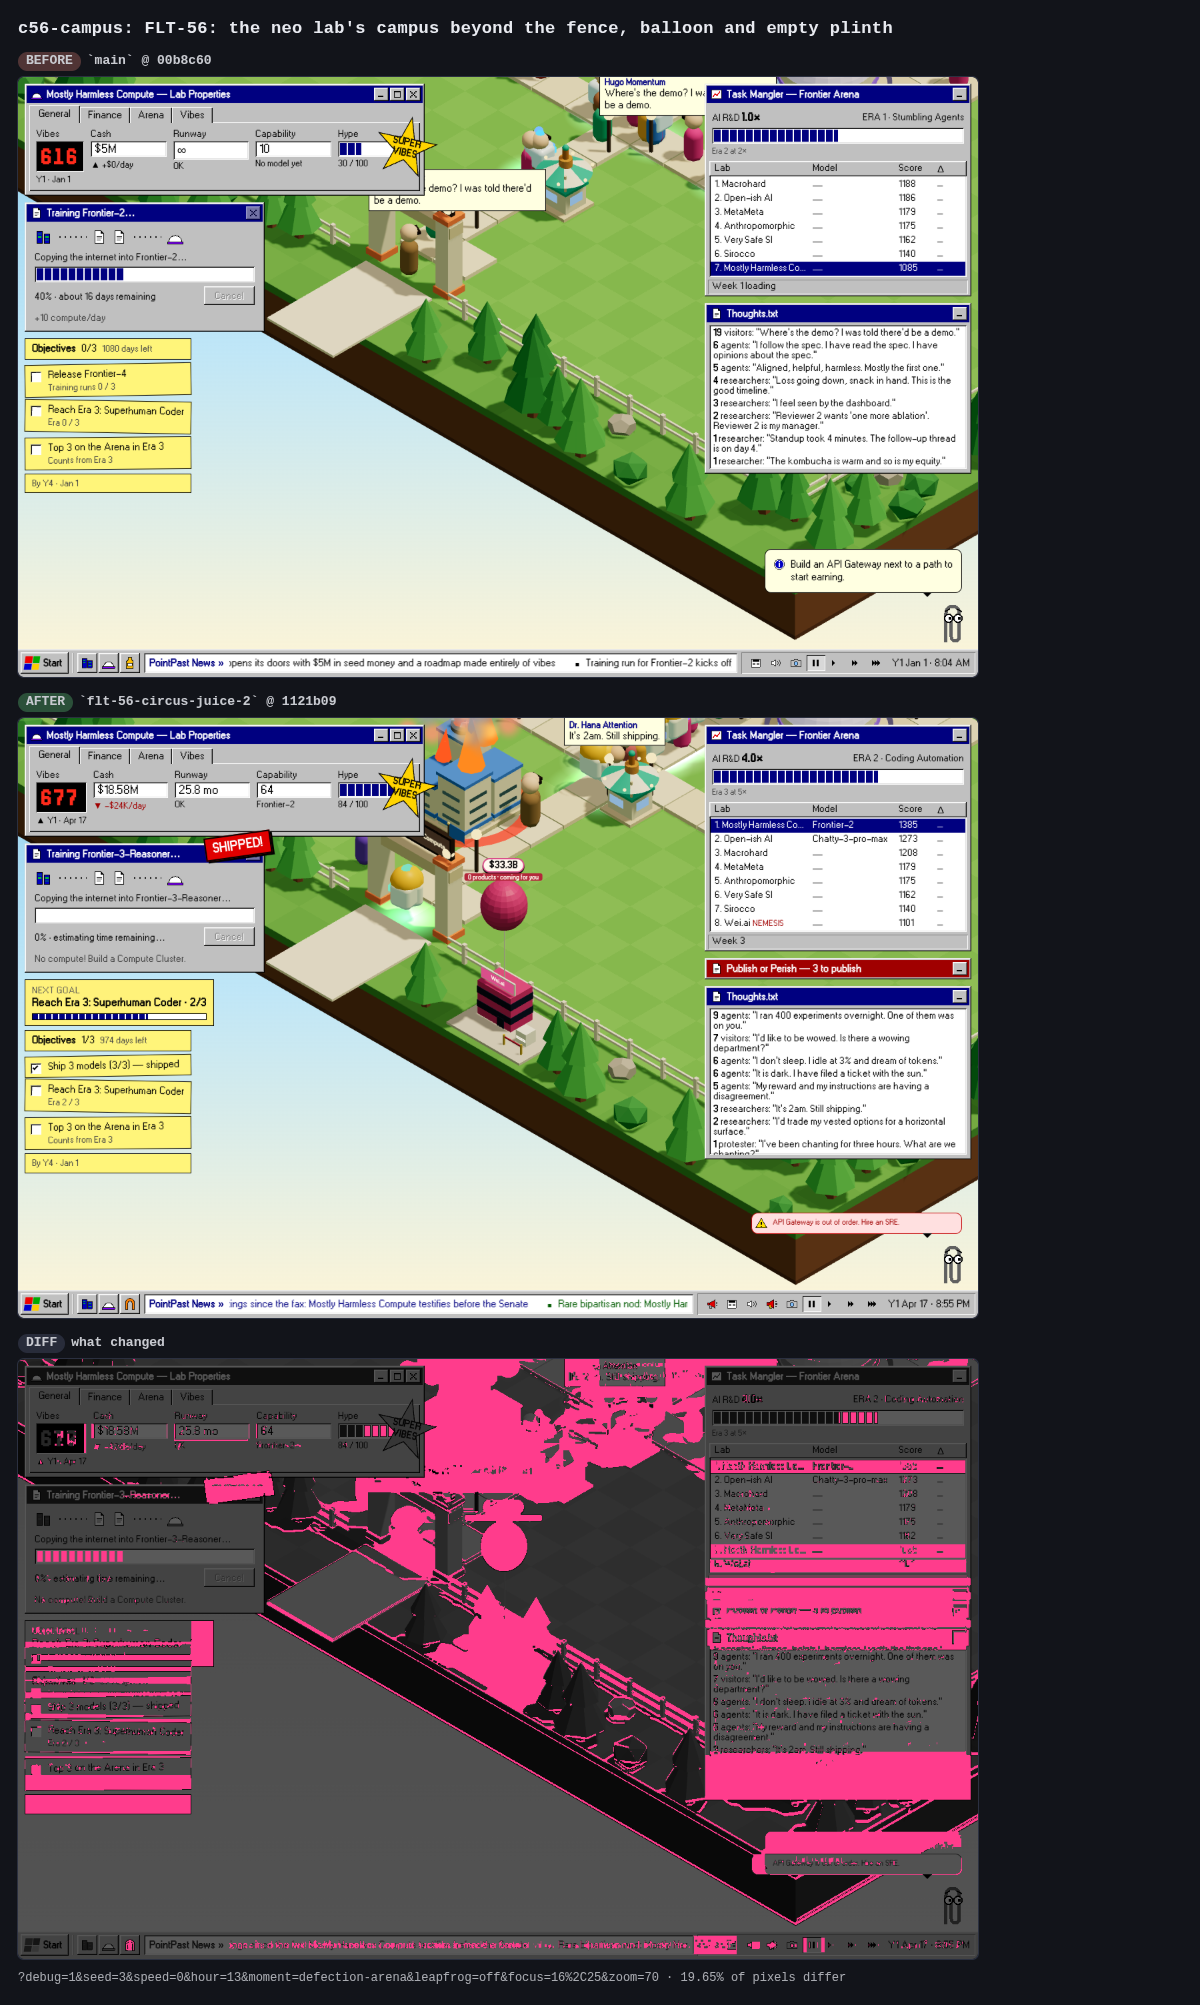
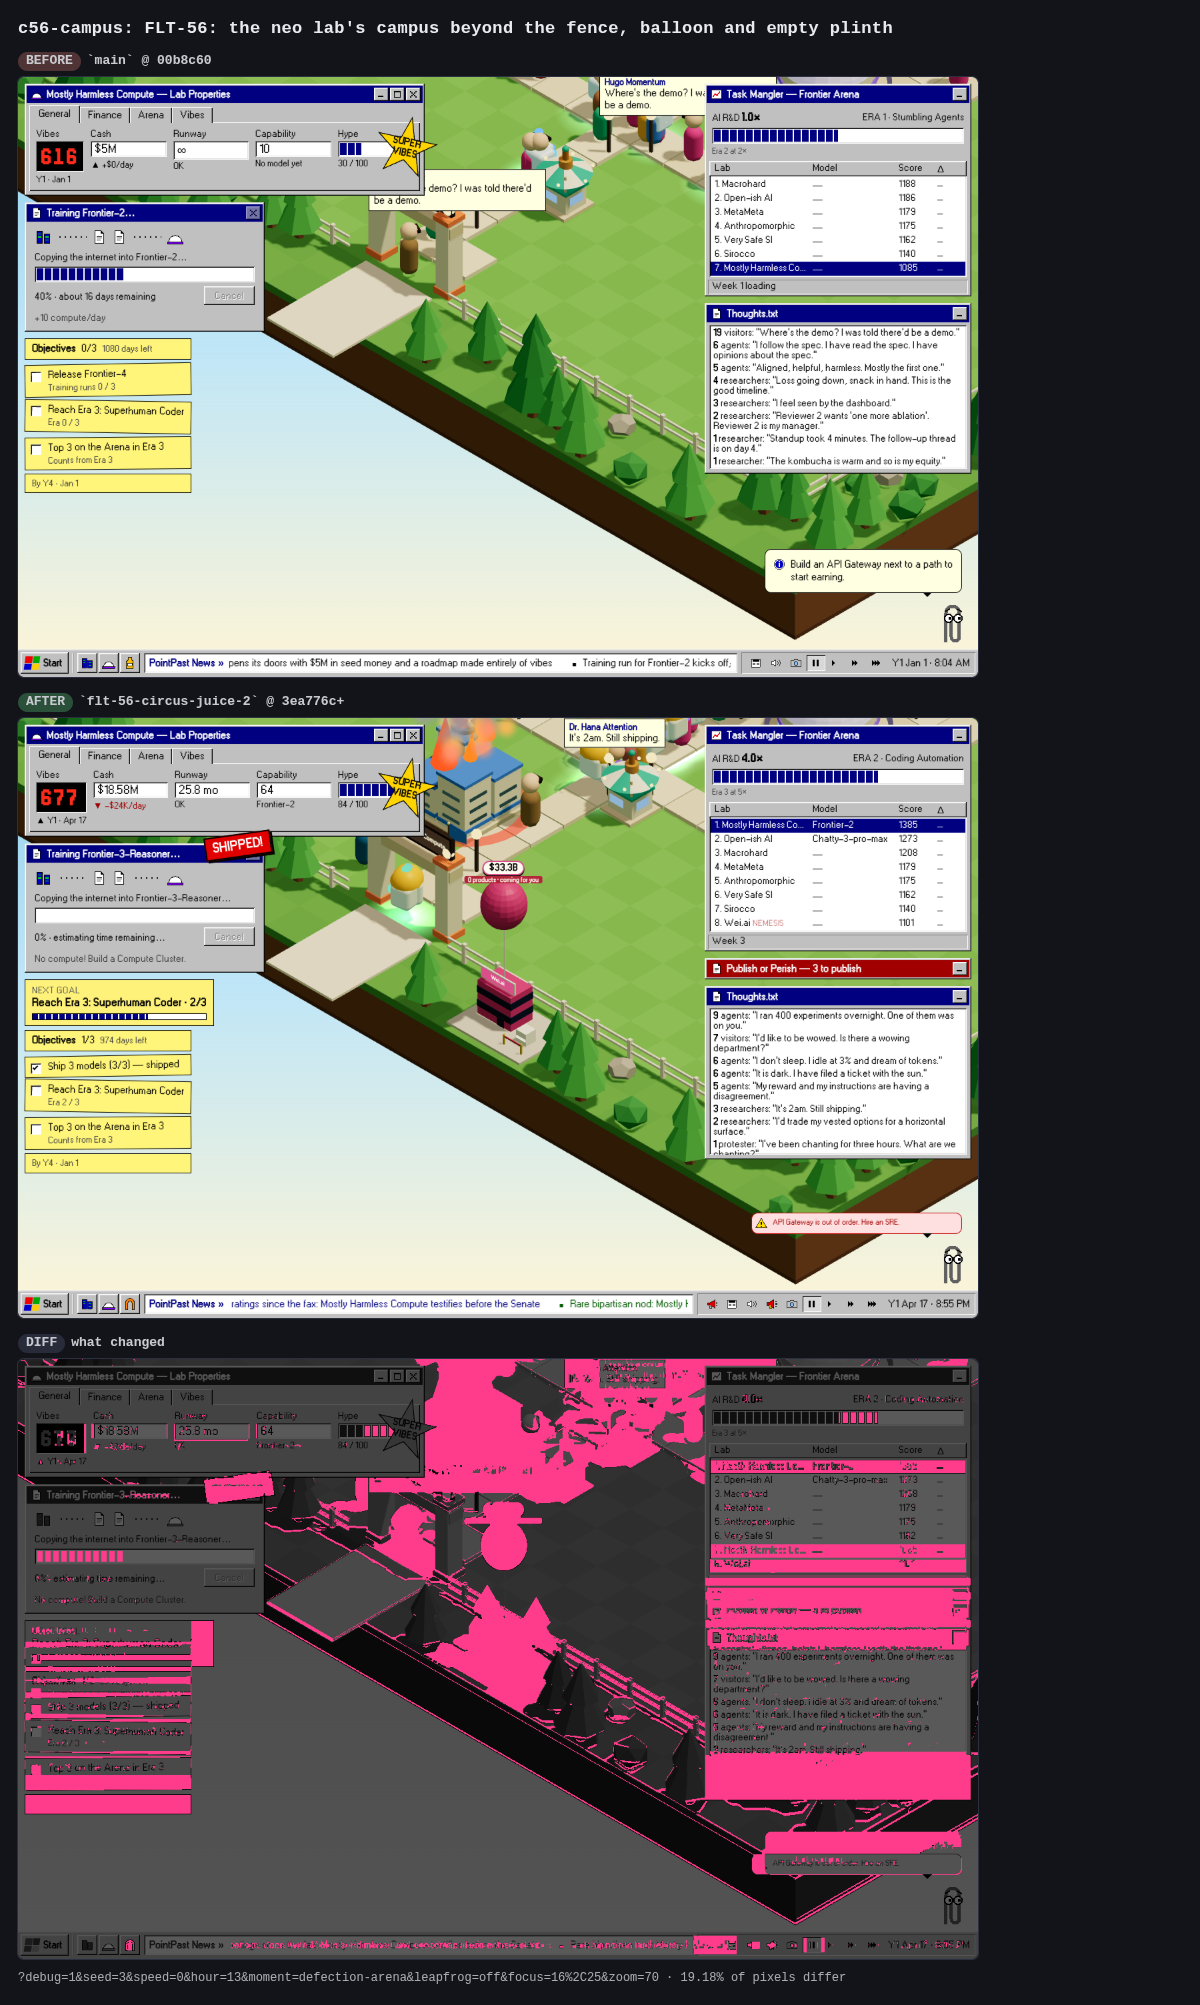
FLT-56: before/after shots of every phase 1 and phase 2 moment (gate legend, statement, leak risk, the reporter's warning, stakes)

diff --git a/docs/img/flt-56/report.md b/docs/img/flt-56/report.md
@@ -1,19 +1,23 @@
-
-> **⚠ 1 blank or failed output(s), do not use these as evidence:**
-> - c56-viral-phone.png: blank composite: panel 3 is 80% one colour, 12 colours
-
-| Scene | Before (`main` @ 00b8c60) | After (`flt-56-circus-juice-2` @ 1121b09) |
+| Scene | Before (`main` @ 00b8c60) | After (`flt-56-circus-juice-2` @ 3ea776c+) |
 |---|---|---|
 | **c56-conga**<br>85.7% px differ | ![c56-conga](https://github.com/jem-computer/frontier-lab-tycoon/blob/flt-56-circus-juice-2/docs/img/flt-56/before/c56-conga.png?raw=true) | ![c56-conga](https://github.com/jem-computer/frontier-lab-tycoon/blob/flt-56-circus-juice-2/docs/img/flt-56/after/c56-conga.png?raw=true) |
 | **c56-conga-phone**<br>80.8% px differ | ![c56-conga-phone](https://github.com/jem-computer/frontier-lab-tycoon/blob/flt-56-circus-juice-2/docs/img/flt-56/before/c56-conga-phone.png?raw=true) | ![c56-conga-phone](https://github.com/jem-computer/frontier-lab-tycoon/blob/flt-56-circus-juice-2/docs/img/flt-56/after/c56-conga-phone.png?raw=true) |
-| **c56-campus**<br>19.7% px differ | ![c56-campus](https://github.com/jem-computer/frontier-lab-tycoon/blob/flt-56-circus-juice-2/docs/img/flt-56/before/c56-campus.png?raw=true) | ![c56-campus](https://github.com/jem-computer/frontier-lab-tycoon/blob/flt-56-circus-juice-2/docs/img/flt-56/after/c56-campus.png?raw=true) |
+| **c56-campus**<br>19.2% px differ | ![c56-campus](https://github.com/jem-computer/frontier-lab-tycoon/blob/flt-56-circus-juice-2/docs/img/flt-56/before/c56-campus.png?raw=true) | ![c56-campus](https://github.com/jem-computer/frontier-lab-tycoon/blob/flt-56-circus-juice-2/docs/img/flt-56/after/c56-campus.png?raw=true) |
 | **c56-poach-sirocco**<br>29.5% px differ | ![c56-poach-sirocco](https://github.com/jem-computer/frontier-lab-tycoon/blob/flt-56-circus-juice-2/docs/img/flt-56/before/c56-poach-sirocco.png?raw=true) | ![c56-poach-sirocco](https://github.com/jem-computer/frontier-lab-tycoon/blob/flt-56-circus-juice-2/docs/img/flt-56/after/c56-poach-sirocco.png?raw=true) |
-| **c56-huddle**<br>91.7% px differ | ![c56-huddle](https://github.com/jem-computer/frontier-lab-tycoon/blob/flt-56-circus-juice-2/docs/img/flt-56/before/c56-huddle.png?raw=true) | ![c56-huddle](https://github.com/jem-computer/frontier-lab-tycoon/blob/flt-56-circus-juice-2/docs/img/flt-56/after/c56-huddle.png?raw=true) |
-| **c56-huddle-phone**<br>89.9% px differ | ![c56-huddle-phone](https://github.com/jem-computer/frontier-lab-tycoon/blob/flt-56-circus-juice-2/docs/img/flt-56/before/c56-huddle-phone.png?raw=true) | ![c56-huddle-phone](https://github.com/jem-computer/frontier-lab-tycoon/blob/flt-56-circus-juice-2/docs/img/flt-56/after/c56-huddle-phone.png?raw=true) |
-| **c56-plaque**<br>31.1% px differ | ![c56-plaque](https://github.com/jem-computer/frontier-lab-tycoon/blob/flt-56-circus-juice-2/docs/img/flt-56/before/c56-plaque.png?raw=true) | ![c56-plaque](https://github.com/jem-computer/frontier-lab-tycoon/blob/flt-56-circus-juice-2/docs/img/flt-56/after/c56-plaque.png?raw=true) |
+| **c56-huddle**<br>91.6% px differ | ![c56-huddle](https://github.com/jem-computer/frontier-lab-tycoon/blob/flt-56-circus-juice-2/docs/img/flt-56/before/c56-huddle.png?raw=true) | ![c56-huddle](https://github.com/jem-computer/frontier-lab-tycoon/blob/flt-56-circus-juice-2/docs/img/flt-56/after/c56-huddle.png?raw=true) |
+| **c56-huddle-phone**<br>92.1% px differ | ![c56-huddle-phone](https://github.com/jem-computer/frontier-lab-tycoon/blob/flt-56-circus-juice-2/docs/img/flt-56/before/c56-huddle-phone.png?raw=true) | ![c56-huddle-phone](https://github.com/jem-computer/frontier-lab-tycoon/blob/flt-56-circus-juice-2/docs/img/flt-56/after/c56-huddle-phone.png?raw=true) |
+| **c56-plaque**<br>32.8% px differ | ![c56-plaque](https://github.com/jem-computer/frontier-lab-tycoon/blob/flt-56-circus-juice-2/docs/img/flt-56/before/c56-plaque.png?raw=true) | ![c56-plaque](https://github.com/jem-computer/frontier-lab-tycoon/blob/flt-56-circus-juice-2/docs/img/flt-56/after/c56-plaque.png?raw=true) |
 | **c56-viral**<br>91.7% px differ | ![c56-viral](https://github.com/jem-computer/frontier-lab-tycoon/blob/flt-56-circus-juice-2/docs/img/flt-56/before/c56-viral.png?raw=true) | ![c56-viral](https://github.com/jem-computer/frontier-lab-tycoon/blob/flt-56-circus-juice-2/docs/img/flt-56/after/c56-viral.png?raw=true) |
-| **c56-viral-phone**<br>⚠ compare: blank composite: panel 3 is 80% one colour, 12 colours | ![c56-viral-phone](https://github.com/jem-computer/frontier-lab-tycoon/blob/flt-56-circus-juice-2/docs/img/flt-56/before/c56-viral-phone.png?raw=true) | ![c56-viral-phone](https://github.com/jem-computer/frontier-lab-tycoon/blob/flt-56-circus-juice-2/docs/img/flt-56/after/c56-viral-phone.png?raw=true) |
+| **c56-viral-phone**<br>81.7% px differ | ![c56-viral-phone](https://github.com/jem-computer/frontier-lab-tycoon/blob/flt-56-circus-juice-2/docs/img/flt-56/before/c56-viral-phone.png?raw=true) | ![c56-viral-phone](https://github.com/jem-computer/frontier-lab-tycoon/blob/flt-56-circus-juice-2/docs/img/flt-56/after/c56-viral-phone.png?raw=true) |
+| **c56-gate**<br>26.7% px differ | ![c56-gate](https://github.com/jem-computer/frontier-lab-tycoon/blob/flt-56-circus-juice-2/docs/img/flt-56/before/c56-gate.png?raw=true) | ![c56-gate](https://github.com/jem-computer/frontier-lab-tycoon/blob/flt-56-circus-juice-2/docs/img/flt-56/after/c56-gate.png?raw=true) |
+| **c56-gate-karaoke**<br>35.0% px differ | ![c56-gate-karaoke](https://github.com/jem-computer/frontier-lab-tycoon/blob/flt-56-circus-juice-2/docs/img/flt-56/before/c56-gate-karaoke.png?raw=true) | ![c56-gate-karaoke](https://github.com/jem-computer/frontier-lab-tycoon/blob/flt-56-circus-juice-2/docs/img/flt-56/after/c56-gate-karaoke.png?raw=true) |
+| **c56-statement**<br>91.7% px differ | ![c56-statement](https://github.com/jem-computer/frontier-lab-tycoon/blob/flt-56-circus-juice-2/docs/img/flt-56/before/c56-statement.png?raw=true) | ![c56-statement](https://github.com/jem-computer/frontier-lab-tycoon/blob/flt-56-circus-juice-2/docs/img/flt-56/after/c56-statement.png?raw=true) |
+| **c56-statement-phone**<br>81.2% px differ | ![c56-statement-phone](https://github.com/jem-computer/frontier-lab-tycoon/blob/flt-56-circus-juice-2/docs/img/flt-56/before/c56-statement-phone.png?raw=true) | ![c56-statement-phone](https://github.com/jem-computer/frontier-lab-tycoon/blob/flt-56-circus-juice-2/docs/img/flt-56/after/c56-statement-phone.png?raw=true) |
+| **c56-risk**<br>44.4% px differ | ![c56-risk](https://github.com/jem-computer/frontier-lab-tycoon/blob/flt-56-circus-juice-2/docs/img/flt-56/before/c56-risk.png?raw=true) | ![c56-risk](https://github.com/jem-computer/frontier-lab-tycoon/blob/flt-56-circus-juice-2/docs/img/flt-56/after/c56-risk.png?raw=true) |
+| **c56-risk-phone**<br>70.7% px differ | ![c56-risk-phone](https://github.com/jem-computer/frontier-lab-tycoon/blob/flt-56-circus-juice-2/docs/img/flt-56/before/c56-risk-phone.png?raw=true) | ![c56-risk-phone](https://github.com/jem-computer/frontier-lab-tycoon/blob/flt-56-circus-juice-2/docs/img/flt-56/after/c56-risk-phone.png?raw=true) |
+| **c56-leak**<br>91.2% px differ | ![c56-leak](https://github.com/jem-computer/frontier-lab-tycoon/blob/flt-56-circus-juice-2/docs/img/flt-56/before/c56-leak.png?raw=true) | ![c56-leak](https://github.com/jem-computer/frontier-lab-tycoon/blob/flt-56-circus-juice-2/docs/img/flt-56/after/c56-leak.png?raw=true) |
+| **c56-leak-phone**<br>82.6% px differ | ![c56-leak-phone](https://github.com/jem-computer/frontier-lab-tycoon/blob/flt-56-circus-juice-2/docs/img/flt-56/before/c56-leak-phone.png?raw=true) | ![c56-leak-phone](https://github.com/jem-computer/frontier-lab-tycoon/blob/flt-56-circus-juice-2/docs/img/flt-56/after/c56-leak-phone.png?raw=true) |
+| **c56-leak-senate**<br>37.4% px differ | ![c56-leak-senate](https://github.com/jem-computer/frontier-lab-tycoon/blob/flt-56-circus-juice-2/docs/img/flt-56/before/c56-leak-senate.png?raw=true) | ![c56-leak-senate](https://github.com/jem-computer/frontier-lab-tycoon/blob/flt-56-circus-juice-2/docs/img/flt-56/after/c56-leak-senate.png?raw=true) |
+| **c56-stakes**<br>34.5% px differ | ![c56-stakes](https://github.com/jem-computer/frontier-lab-tycoon/blob/flt-56-circus-juice-2/docs/img/flt-56/before/c56-stakes.png?raw=true) | ![c56-stakes](https://github.com/jem-computer/frontier-lab-tycoon/blob/flt-56-circus-juice-2/docs/img/flt-56/after/c56-stakes.png?raw=true) |
 
-_pnpm shots: 9 scene(s) in 291.8s (18/18 captures ok, 1 PROBLEM(S))._
-
-_c56-viral-phone: the compare panel is flagged "blank" only because 82% of pixels differ (`main` has no hearing-viral moment, so it shows the plain campus); `pnpm shots --verify` passes all 18 before/after captures._
+_pnpm shots: 19 scene(s) in 441.5s (38/38 captures ok; the two phone beats re-shot without the diff panel, whose 82% change reads as a solid colour)._
